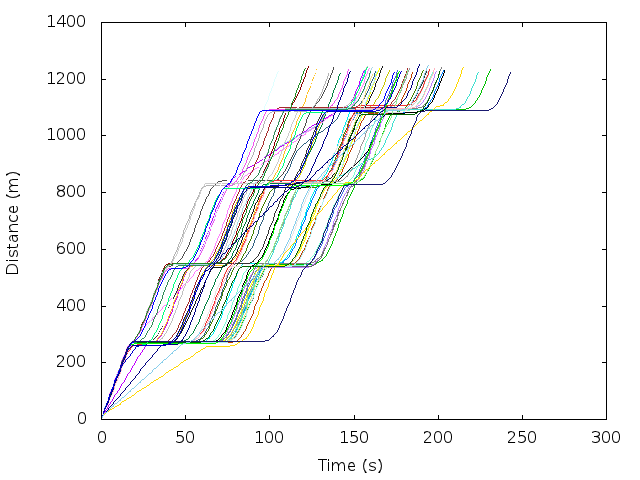
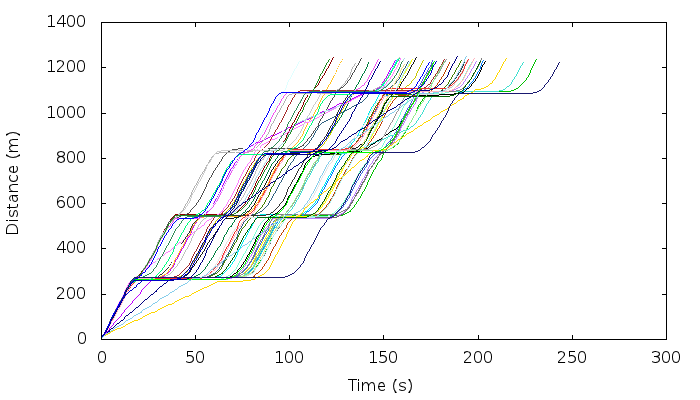
working

diff --git a/Article/src/TestResults.tex b/Article/src/TestResults.tex
@@ -3,14 +3,27 @@ We test proposed techinque using the use cased explained in the previouse sectio
 
 \subsection{Verification of Results}
 
-From Figure~\ref{tik:distance:0:53} we see that the simulation compared to the real world results from Figure \ref{} is a close match. 
+From Figure~\ref{fig:TestResults:distance0} we see that the simulation compared to the real-world results from Figure \ref{} is a close match. 
 We see the same stop and go behavior as a results from traffic lights, and the arrival times are also a close match. 
-If we compare the driving speed of the simulation show in Figure \ref{tik:speed:0:53} with the real world data from Figure \ref{} we see that in most cases the vehicles are either driving at max speed, or they are at a full stop. 
+If we compare the driving speed of the simulation show in Figure \ref{fig:TestResults:speed0} with the real-world data from Figure \ref{} we see that in most cases the vehicles are either driving at the maximum speed, or they are at a full stop. 
 This behavior on the two graphs are almost identical and consistent with the stop and go behavior caused by traffic lights. 
 Figure \ref{} shows the distance to a traffic light where each vehicles makes a stop. 
 All the blue dots are vehicles that only have a single stop, red squares have two stops and yellow triangles have 3 stops.
-The traffic light for this figure is the first junctions driving from Vesterbro. See Figure \ref{fig:Introduction:hobro}. The Figure \ref{} show the real world data from the same traffic light. 
+The traffic light for this figure is the first junctions driving from Vesterbro. See Figure \ref{fig:Introduction:hobro}. The Figure \ref{} show the real-world data from the same traffic light. 
 %TODO: when we have something to compare with
+
+\begin{figure}[htb]
+\includegraphics[width=0.5\textwidth]{images/speed0.png}
+\caption{Speed graph}
+\label{fig:TestResults:speed0}
+\end{figure}
+
+\begin{figure}[htb]
+\includegraphics[width=0.5\textwidth]{images/distance0.png}
+\caption{Distance graph}
+\label{fig:TestResults:distance0}
+\end{figure}
+
 %\input{TestResults/0/speed_53.tex}
 %\input{TestResults/0/distance_53.tex}
 %\input{TestResults/0/stop.tex}
@@ -20,11 +33,18 @@ We use SUMO's build-in function to calculate the vehicles fuel consumption, whic
 
 %Figure~\ref{tik:fuel:0:51} shows this fuel consumption as a function of time for vehicles driving on route 51 controlled by SUMO only. 
 %Figure~\ref{tik:fuel:100:51} shows the same setup, but with all vehicles controlled by \tech.
-Figure~\ref{tik:fuel:avg} plots the average fuel consumption for vehicles driving on all routes. 
+Figure~\ref{fig:TestResults:fuelRoute} plots the average fuel consumption for vehicles driving on all routes. 
 The results clearly show that using \tech in this setup will reduce the fuel consumption significantly.
 Acrose all routes, we see a reduction from an average of 130 $mL$ to an average of 96 $mL$, which is a reduction of 29 \%.
-If we only look at route 51, we observe an average fuel consumption without \tech at 175 $mL$, and 117 $mL$ with \tech.
-This is again a significant reduction in fuel consumption in 33 \%.
+If we only look at route 1, we observe an average fuel consumption without \tech at 175 $mL$, and 117 $mL$ with \tech.
+This is again a significant reduction in fuel consumption in 33 \%. %TODO fix number
+
+\begin{figure}[htb]
+\includegraphics[width=0.5\textwidth]{images/fuelRoute.png}
+\caption{Fuel graph}
+\label{fig:TestResults:fuelRoute}
+\end{figure}
+
 
 %\input{TestResults/100/fuel_51.tex}
 %\input{TestResults/0/fuel_51.tex}
@@ -45,25 +65,35 @@ This is again a significant reduction in fuel consumption in 33 \%.
 
 
 \subsection{Distance}
-Figure~\ref{tik:distance:0:54} shows the distance ?? vehicles drive on route 54 as a function of time when their driving behaviour is solely controled by SUMO. 
+Figure~\ref{fig:TestResults:distance100} shows the distance ?? vehicles drive on route 54 as a function of time when their driving behaviour is solely controled by SUMO. 
 The vehicle is stationary whenever the curve flatens.
 From the figure we clearly see that the vehicles on this route has to stop four times, at 250 meter, at 550 meters, at 750 meters and again at 1100 metets.
 
-When we control the speed of the vehicles using \tech, we see a different result showed in Figure~\ref{tik:distance:100:51}.
+When we control the speed of the vehicles using \tech, we see a different result showed in Figure~\ref{fig:TestResults:distance100}.
 The curves in this figure are much more smooth, and fewer vehicles has to stop completely at a cross section.
 Some vehicles have to stop due to blocking vehicles or cross traffic, which we do not take into account.
 
 We can therefore see that using \tech results in less full stops.
 
-%\input{TestResults/100/distance_54.tex}
+
+\begin{figure}[htb]
+\includegraphics[width=0.5\textwidth]{images/distance100.png}
+\caption{Distance graph}
+\label{fig:TestResults:distance100}
+\end{figure}
 
 \subsection{Speed}
 Figure~\ref{tik:speed:0:54} shows the speed at which SUMO controlled vehicles on route 54 drive as a function over time.
 The graph clearly shows that the vehicles quicly accelerates up to the maximal speed, then quickly decelerates to a full stop and then quickly accelerates again.
-By using \tech we see a very different outline (See Figure~\ref{tik:speed:100:54}).
+By using \tech we see a very different outline (See Figure~\ref{fig:TestResults:speed100}).
 Few vehicles decelerates to $0 m/s$, and many stay above $5 m/s$ ($18 km/h$ or $11$ miles per hour ($mph$)).
 We do, however, still see a large fluctuation.
-%\input{TestResults/100/speed_54.tex}
+\begin{figure}[htb]
+\includegraphics[width=0.5\textwidth]{images/speed100.png}
+\caption{Speed graph}
+\label{fig:TestResults:speed100}
+\end{figure}
+
 
 
 \subsection{Time}

diff --git a/Article/src/Model.tex b/Article/src/Model.tex
@@ -20,32 +20,19 @@ Deceleration 	&	& \\\hline
 \end{table}
 
 \subsection{Map}
-A map is a directed graph, $G = (V, E, C)$ where $V$ is a set of vertices, $E$ is a set of edges representing road segments and $C$ is a set of connections.
-Every edge $\edge\in E$ has a starting point \estart\in V, an end point \eend\in V and a maximum speed \espeed. 
+A map is a directed graph, $G = (V, E, C)$ where $V$ is a set of vertices, $E$ is a set of edges representing road segments and $C$ is a set of connections between edges.
+An egde represents one direction of a road segment.
+Every edge $\edge\in E$ has a starting point $\estart\in V$, an end point $\eend\in V$ and a maximum speed \espeed. 
 The lenght of an edge is the euclidean distance between $\estart$ and \eend denoted as \elength.
-In Figure~\ref{fig:Introduction:network} we have five egdes:  as the road coming from north is unidirectional.
+In Figure~\ref{fig:Introduction:network} we have five egdes: two to the west of traffic light, two the the east and one to the north. %TODO: Good enough?
 
+Edges are connected through connections.
+This way, it is for example possible to model that 
 An intersection is made up of several connections that connect road segments one can drive to and from.
 For example each possible legal pass through the intersection in Figure~\ref{fig:Introduction:network} is a connection as shown in Figure~\ref{fig:Model:Connection} as red arrows. 
-A connection, $\con$ is hence unidirectional from one vertex, \cestart to another vertex, \ceend, and a connection is made for each lane of the edges.
+A connection, $\con$ is hence unidirectional from one vertex, $\cestart\in V$ to another vertex, $\ceend \in V$, and a connection is made for each lane of the edges.
 A connection is also associated a traffic light phase, $\cphase$. 
 The example in Figure~\ref{fig:Introduction:network} hence have six connections assuming one cannot make U-turns.
-\begin{comment}
-\begin{table}[h]
-\centering
-\begin{tabular}{|l|c|c|}
-\hline
-&$\cestart$ & $\ceend$ \\ \hline
-$\con_1$ & 1 & 7 \\ \hline
-$\con_2$ & 4 & 3 \\ \hline
-$\con_3$ & 4 & 7 \\ \hline
-$\con_4$ & 5 & 3 \\ \hline
-$\con_5$ & 6 & 2 \\ \hline
-\end{tabular}
-\caption{Connection table of the network shown in Figure \ref{fig:Introduction:network} }
-\label{tab:Introduction:connectionTable}
-\end{table}
-\end{comment}
 
 \begin{figure}[h]
 \centering
@@ -55,14 +42,15 @@ $\con_5$ & 6 & 2 \\ \hline
 \end{figure}
 
 \subsection{Sensors}
-A sensor can detect whether a vehicle is located at the sensor or not. Sensors can be induction loops, video cameras or others. %TODO: More stuff
+A sensor can detect whether a vehicle is located at the sensor or not. 
+Sensors can for example be induction loops or video cameras. %TODO: More stuff
 
 \subsection{Traffic Light Phases}
 We have a traffic light phase for each connection in a traffic light, and each phase details the light setting for just this one connection.
 SUMO limits the allowed light settings to $red$, $yellow$ and $green$.
 A phase of a traffic light, $\phase$ is defined as $\langle(\light_0, \ti_0),(\light_1, \ti_1),\dots, (\light_n, \ti_n) \rangle$ where the light setting is $\light_i\in \{red, yellow, green\}$ in $\ti_i$ seconds for $0 \leq i \leq n$.
 A connection in an unregulated junction will simply have the phase $\langle(green, \infty)\rangle$.
-The phases of a traffic light defines the light settings when possible sensors are not triggered. 
+The phases of a traffic light defines the light settings when sensors are not triggered. 
 
 
 \subsection{Junction}
@@ -72,26 +60,6 @@ In an unregulated traffic light normal traffic rules apply.
 In a regulated traffic light vehicles will have to check the phase $\cphase$ of the connection \vehpos. 
 A junction is said to be unregulated iff $\forall c \in \jucons | \cphase = \langle(green, \infty)\rangle$
 
-
-\begin{comment}
-\subsection{Traffic Light}
-A traffic light, $\tl$ controls the flow of traffic at a junction, and is associated with a set of connections, $\tlcons$. % and a set of sensors, $\tlsen$.
-
-%TODO: Is this out of place?
-A junction has a physical size and geometry, as illustrated in Figure~\ref{fig:Introduction:network}.
-In SUMO this is represented as a center point and a geometric object.
-To get the distance from a traffic light to a vehicle, we simply calculate the distance to the center of the traffic and substract the average distance from the center to the outer egdes of the traffic light. 
-Hence, we cannot predict the precise distance to the position at a traffic light where the driver must stop.
-However, there is already inaccuracies due to blocking cars.
-This can for example be observed in Figure \ref{fig:Introduction:network} where vehicle $\veh_1$ drives towards traffic light $\tl_2$. %TODO: fix reference
-He believes that the distance to were he has to stop is the distance $\dist_1$, however, the two blue cars already waiting in line blocks a part of the road.
-\end{comment}
-
-\begin{comment}
-\subsection{Trajectory}
-A trajectory is the GPS records of the time and location of a vehicle 
-\end{comment}
-
 \subsection{Routes}
-A route, $\route$, is a sequence of edges on the map, $\langle \edge_1, \edge_2, \dots \edge_n \rangle$, where $\exists \con$ s.t. $\eendi{i} = \cestart$ and $\estarti{i+1} = \ceend$ for $0\leq i< n$.
+A route, $\route$, is a sequence of edges on the map, $\langle \edge_0, \edge_1, \dots \edge_n \rangle$, where $\exists \con$ such that $\eendi{i} = \cestart$ and $\estarti{i+1} = \ceend$ for $0\leq i< n$.
 The vehicle starts at $\edge_1$ and moves along the sequence until $\edge_n$ has been reached.

diff --git a/Article/imgGen.py b/Article/imgGen.py
@@ -12,7 +12,7 @@ if(len(sys.argv) > 2):
 		line = fileIN.readline()
 
 	
-	print "set terminal png"
+	print "set terminal png size 700,400"
 	print "set output \"images/"+ sys.argv[2]+ "\""
 	print "unset key"
 
@@ -58,7 +58,7 @@ if(len(sys.argv) > 2):
 		print "plot" + plots
 	elif sys.argv[1].find("speed") == 0:
 		print "set xrange [0:300]"
-		print "set yrange [0:20]"
+		print "set yrange [0:65]"
 		datasetPercentage = sys.argv[1][sys.argv[1].find("_")+1:]
 		print "set ylabel 'Speed (km/h)'"
 		print "set xlabel 'Time (s)'"

diff --git a/Article/src/UseCase.tex b/Article/src/UseCase.tex
@@ -18,8 +18,8 @@ In the following, we will focus our tests on the routes detailed in Table~\ref{t
 \centering
 \begin{tabular}{|l|l|}\hline
 \textbf{ID} & \textbf{Route}\\\hline
-51 & <Vesterbro, Hobrovej>\\\hline
-53 & <Hobrovej, Vesterbro>\\\hline
+1 & <Hobrovej, Vesterbro>\\\hline
+2 & <Vesterbro, Hobrovej>\\\hline
 \end{tabular}
 \caption{Routes}\label{tb:useCase:routes}
 \end{table}

diff --git a/Article/src/Introduction.tex b/Article/src/Introduction.tex
@@ -21,7 +21,7 @@ Now by the time the vehicle reaches the intersection the signal will have change
 \begin{figure}[htb]
 \centering
 \includegraphics[width=0.5\textwidth]{images/introNetwork.png}
-\caption{Eksample network}
+\caption{Example network}
 \label{fig:Introduction:network}
 \end{figure}
 
